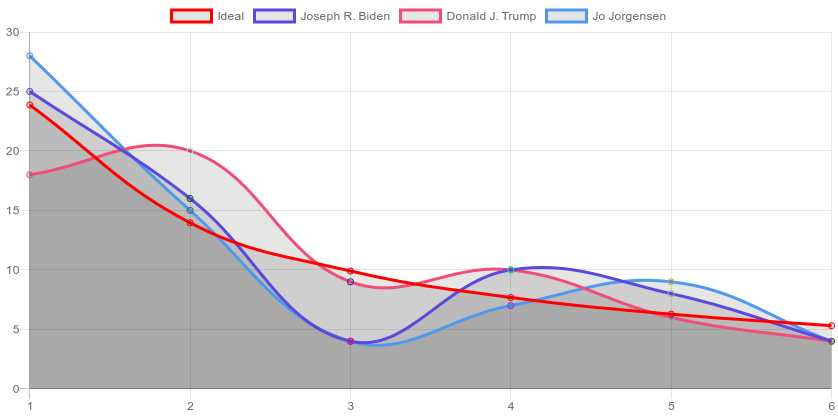
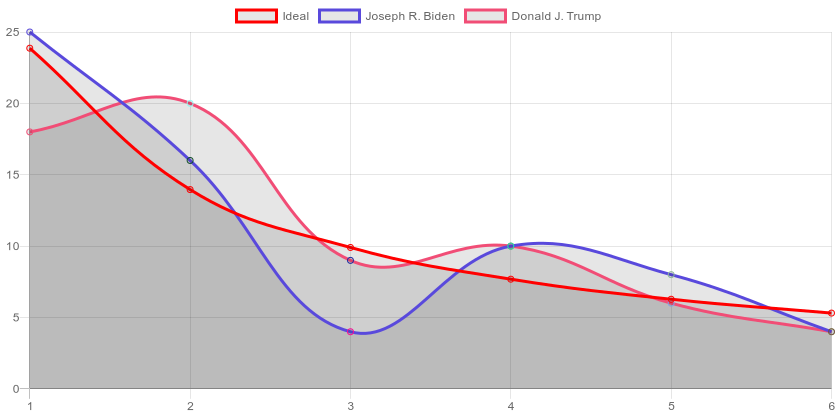
Updated graphs for Alabama

diff --git a/index.js b/index.js
@@ -29,7 +29,7 @@ const configsForLocations = [
                 {
                     converter: 'converter_4',
                     options: {
-                        limitCandidates: 3
+                        limitCandidates: 2
                     }
                 }
             ],
